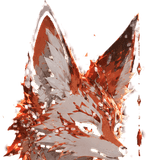
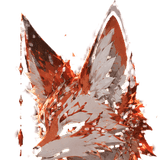
Fix facing on 4 heroes: Orin, Kharos (regressed), Flint, Tydra (new)
Audited every hero's sprite/portrait/card-art against the established
"authored facing right" convention by comparing each raw asset
side-by-side with its own scaleX(-1) mirror.

Orin and Kharos had already been flipped once (per DESIGN.md's own
account of the fix) but silently reverted: a later opacity fix
re-derived both from their pre-flip originals to avoid compounding
transforms, and the facing flip was never reapplied on top. Flint's
fox and Tydra were newly found — neither had a documented facing fix
before this.

Fixed all four with sharp().flop() on sprite + portrait + card-art
together, keeping each character's canonical facing consistent across
every view. No code changes. The other 10 heroes were checked and
left alone — clear correct-side tells, symmetric designs with nothing
to get wrong, or (Kairo) genuinely ambiguous and left unflipped rather
than guessed.

diff --git a/DESIGN.md b/DESIGN.md
@@ -3254,3 +3254,68 @@ remaining border-glow/scale/dim treatment still clearly distinguishes
 filled-from-empty and picked-from-unpicked. Zero console errors. Full
 pipeline (`tsc -b`, `oxlint`, 75-test Vitest suite, `vite build`,
 `cap sync android`) passes.
+
+### 9.50 Facing audit: 4 heroes found backward, 2 of them regressions
+
+The user asked, generically, to double-check every hero's facing —
+not in response to a specific screenshot, just wanting the whole
+roster verified against §9.3's "every hero, vector or real-art, is
+authored/stored facing right" rule.
+
+Eyeballing the 14 raw sprite files directly (unmirrored — exactly
+how each renders for an ally) rather than trusting the historical
+record: built a throwaway local HTML page (`file://`, never committed)
+showing each hero twice, once as-is and once `scaleX(-1)`, to make the
+"is the weapon-arm/gaze on the correct side" call side by side rather
+than from memory of a single static image. Two results were genuinely
+surprising:
+
+**Orin and Kharos were both backward again**, despite §9.35's own
+narrative saying both had already been flipped for exactly this
+reason (staff and mace sitting on the left). Root cause, reconstructed
+from the surrounding entries: §9.35's opacity hard-snap fix explicitly
+re-derived both heroes fresh from their **pre-§9.34 originals** ("via
+git history... stacking corrections on already-corrected files
+compounds rather than fixes") to avoid compounding the opacity
+transform on top of the flip transform — but that pre-§9.34 baseline
+was the version from *before* the facing flip ever happened, and the
+flip was never reapplied afterward. The opacity fix landed correctly;
+the facing fix it was built on top of silently didn't survive the
+rebase. A real lesson for future "re-derive from an earlier baseline"
+fixes: re-list every transform the current file carries that the
+baseline doesn't, not just the one motivating the re-derivation.
+
+**Flint's fox and Tydra were newly found, not regressions** — neither
+had a documented facing fix at all before now. Flint's fox had its
+head/front turned toward image-left; Tydra's gaze (the same kind of
+tell §9.3 used for Inferna, and §9.9 for Mourn's cloth-flow) turned
+left as well.
+
+Fixed all four the established way — `sharp().flop()` on each hero's
+sprite, portrait, *and* card-art together, for the same reason §9.34
+gave: keeping a character's canonical facing consistent across every
+view of them, not just the one that actually gets CSS-mirrored by
+team. No code changes; this was purely 12 image files (4 heroes × 3
+assets each).
+
+The other 10 heroes were checked the same way and left alone: Amp,
+Rune, Torrent, Erosalina, Inferna, Mourn, and Zera all have a clear
+weapon/gaze/companion tell already on the correct (right) side; Sorrow
+and Cragor are frontal/symmetric designs with no directional tell to
+get wrong in the first place, so nothing to flip even in principle.
+Kairo is the one honest "couldn't tell" — a mostly frontal pose with
+no visible weapon and no strong 3/4 turn either way — left unflipped
+rather than guessing, since flipping something that's actually fine is
+exactly as much of a regression as missing something that's actually
+backward.
+
+Verified two ways: the same side-by-side static comparison (confirmed
+all four now read correctly both as-is and mirrored) and a live
+practice match with Orin, Kharos, Flint, and a 4th deck slot, drafted
+into the actual battle — screenshotted mid-round, every one of them
+visibly oriented toward the enemy across the rift, including the
+bot's own (mirrored) Orin correctly facing the opposite way. Zero
+console errors. Full pipeline (`tsc -b`, `oxlint`, 75-test Vitest
+suite, `vite build`, `cap sync android`) passes. `sharp` installed
+temporarily for the flips, confirmed removed afterward
+(`git status --short package.json package-lock.json` clean).
